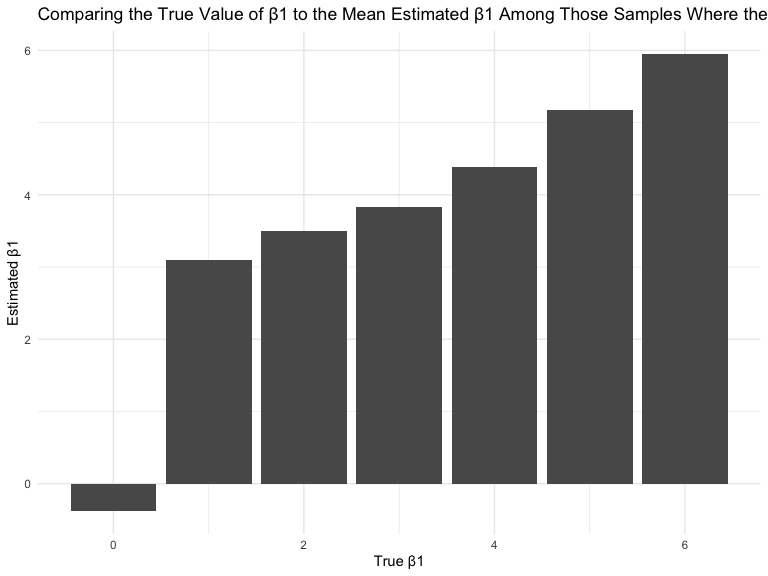
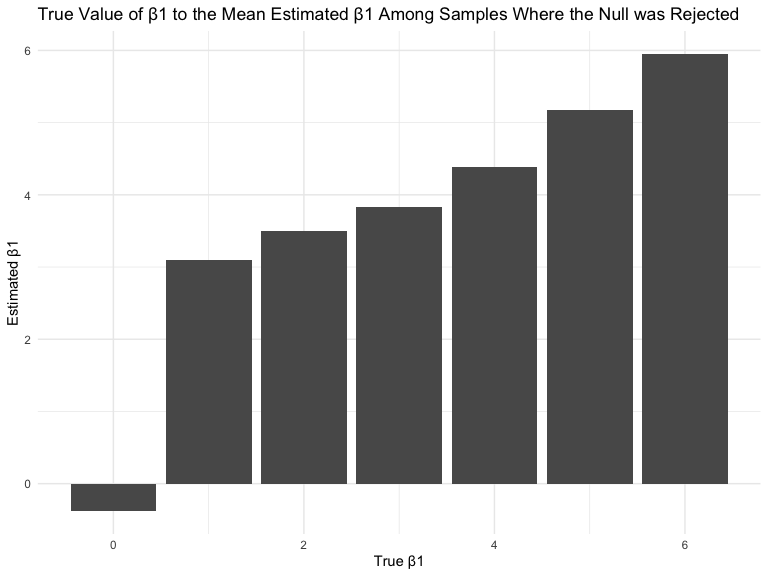
Explanation for plots in question 3

Changed region(s): [[0.0312, 0.0, 1.0, 0.0625]]

diff --git a/p8105_hw5_tal2145.md b/p8105_hw5_tal2145.md
@@ -40,7 +40,7 @@ iris_no_missing = map_dfr(iris_with_missing, fix_missing)
 
 -----
 
-#### Part 1: Loading and tidying control and experimental arm data\*\*
+#### Part 1: Loading and tidying control and experimental arm data
 
   - reading in all files from each subject into one dataframe
   - tidying data to include 4 columns with study arm, id, week and
@@ -392,14 +392,12 @@ Looking at the plot above, we see that as effect size or β1 increases,
 power, or probability of correctly rejecting the null hypothesis also
 increases.
 
-#### Part 4: Plotting
+#### Part 4: Plotting Mean Estimated β1 by True β1 Values
 
-Make a plot showing the average estimate of β̂ 1 on the y axis and the
-true value of β1 on the x axis. Make a second plot (or overlay on the
-first) the average estimate of β̂ 1 only in samples for which the null
-was rejected on the y axis and the true value of β1 on the x axis. Is
-the sample average of β̂ 1 across tests for which the null is rejected
-approximately equal to the true value of β1? Why or why not?
+  - Plotting mean estimated β1 by true β1 values among all samples and
+    just samples where the null hypothesis was rejected
+
+<!-- end list -->
 
 ``` r
 sim_results %>% 
@@ -431,10 +429,22 @@ sim_results %>%
   ggplot(aes(x = beta1, y = mean_beta1_hat_reject)) +
   geom_col() +
   labs(
-    title = "Comparing the True Value of β1 to the Mean Estimated β1 Among Those Samples Where the Null was Rejected",
+    title = "True Value of β1 to the Mean Estimated β1 Among Samples Where the Null was Rejected",
     x = "True β1",
     y = "Estimated β1"
   ) 
 ```
 
 <img src="p8105_hw5_tal2145_files/figure-gfm/unnamed-chunk-5-2.png" width="90%" />
+
+When comparing the average estimate of β1 in all samples to the average
+estimate of β1 in the samples for which the null was rejected, we see
+that at lower values of β1, the value deviates from the true β1. For
+example when the true β1 is 1, the estimate for the rejected samples is
+close to 3, whereas in the plot with average β1 for all samples, the
+value is much closer to the truth of 1. As the effect size increases,
+the difference between the truth and the estimate for rejected sample
+β1’s is closer to the true value. This difference at small values of
+β1 is because at small effect sizes, power is low and we are less
+likely to correctly reject the null hypothesis. At higher effect sizes,
+our power is increased, so we see a better approximation of β1.
